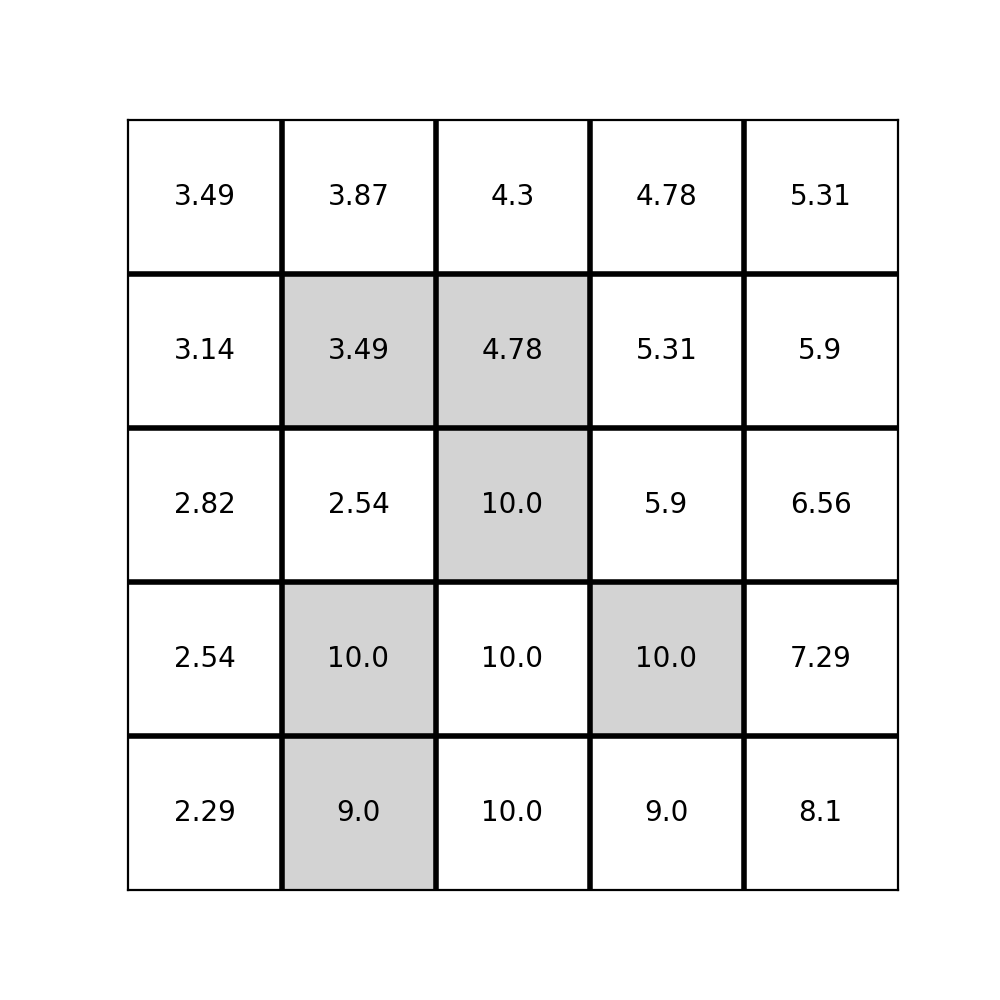
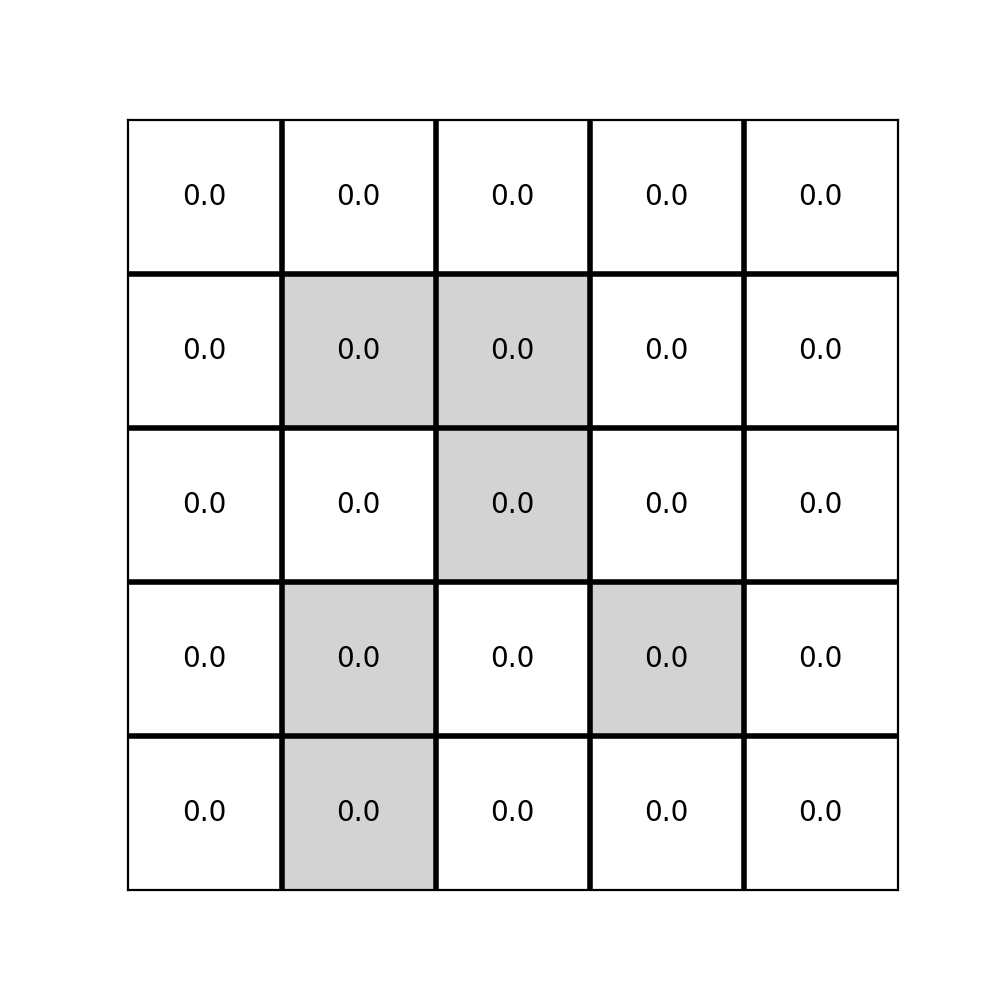
MC

diff --git a/src/algorithm/MC/MCBasic.py b/src/algorithm/MC/MCBasic.py
@@ -17,21 +17,31 @@ class MCBasic:
         :return:
         """
         for _ in range(max_iter):
+            q = np.zeros((env.grid.size, len(Action.all_actions())), dtype=float)
             for state_id in range(env.grid.size):
-                for action_id in range(len(Action.all_actions())):
-                    # 生成足够多的从s,a开始的回合
-                    # 该案例是确定性的，多次运行将得到相同的回合，因此只生成一个回合即可。
-                # 1. 策略评价
-                # 计算q值
-                """
-                q_Π(s,a) = E[G|s,a]
-                """
-                q = np.sum(env.rewards, axis=2) + discount_factor * (env.transition_prob @ env.state_values)
+                for ind, action in enumerate(Action.all_actions()):
+                    """
+                    生成足够多的从s,a开始的回合
+                    该案例是确定性的，多次运行将得到相同的回合，因此只生成一个回合即可。(回合长度设置为15)
+                    q_Π(s,a) = E[G_t|s,a]
+                    G_t = R_t+1 + γ * R_t+2 + γ^2 * R_t+3 + ...
+                    """
+                    g = 0
+                    current_state = state_id
+                    next_state, reward = env.step_determine(current_state, action)
+                    g += reward
+                    for i in range(1, Parameter.episode_length):
+                        current_state = next_state
+                        next_action_id = np.argmax(env.policy[current_state])
+                        next_state, reward = env.step_determine(current_state, Action.all_actions()[next_action_id])
+                        g += reward * (discount_factor ** i)
+                    # 策略评价(计算Q值)
+                    q[state_id, ind] = g
 
                 # 2. 策略更新：Π_{k+1}(a|s) = argmax_a Q_k(s,a)
                 new_policy = np.argmax(q, axis=1)
                 env.policy = np.zeros((env.grid.size, len(Action.all_actions())), dtype=float)
                 env.policy[np.arange(env.grid.size), new_policy] = 1
             # 检查收敛
-            if np.linalg.norm(env.state_values - v) < eps:
-                break
+            # if np.linalg.norm(env.state_values - v) < eps:
+            #     break

diff --git a/src/main.py b/src/main.py
@@ -2,6 +2,7 @@ from src.algorithm.DP.CalStateValue import CalStateValue
 from src.algorithm.DP.PolicyIteration import PolicyIteration
 from src.algorithm.DP.TruncatedPolicyIteration import TruncatedPolicyIteration
 from src.algorithm.DP.ValueIteration import ValueIteration
+from src.algorithm.MC.MCBasic import MCBasic
 from src.utils.Visualizer import Visualizer
 from src.config.Parameter import Parameter
 from src.core.Env import GridWorld
@@ -14,7 +15,8 @@ if __name__ == '__main__':
 
     # ValueIteration.optimize(Parameter.discount_factor, Parameter.eps, Parameter.max_iter, env)
     # PolicyIteration.optimize(Parameter.discount_factor, Parameter.eps, Parameter.max_iter, env)
-    TruncatedPolicyIteration.optimize(Parameter.discount_factor, Parameter.eps, Parameter.max_iter, max_iter_SV=5, env=env)  # max_iter_SV表示截断的次数
+    # TruncatedPolicyIteration.optimize(Parameter.discount_factor, Parameter.eps, Parameter.max_iter, max_iter_SV=5, env=env)  # max_iter_SV表示截断的次数
+    MCBasic.optimize(Parameter.discount_factor, Parameter.eps, Parameter.max_iter, env)
     Visualizer.plot_state_values(env)
     Visualizer.plot_policy(env)
     

diff --git a/src/config/Parameter.py b/src/config/Parameter.py
@@ -23,7 +23,7 @@ class Parameter:
     init_end = (3, 2)
     init_target_reward = 1
     init_boundary_reward = -1
-    init_forbidden_reward = -10
+    init_forbidden_reward = -1
 
     # ============================DP相关参数===============================
     discount_factor = 0.9
@@ -33,6 +33,9 @@ class Parameter:
     # =======================cal_state_value相关参数=======================
     max_iter_SV = 100
     discount_factor_SV = 0.9
+
+    # ===============================MC相关参数============================
+    episode_length = 100
 
     # ============================画图相关参数===============================
     grid_color_dict = {0: "white", -1: "yellow"}
